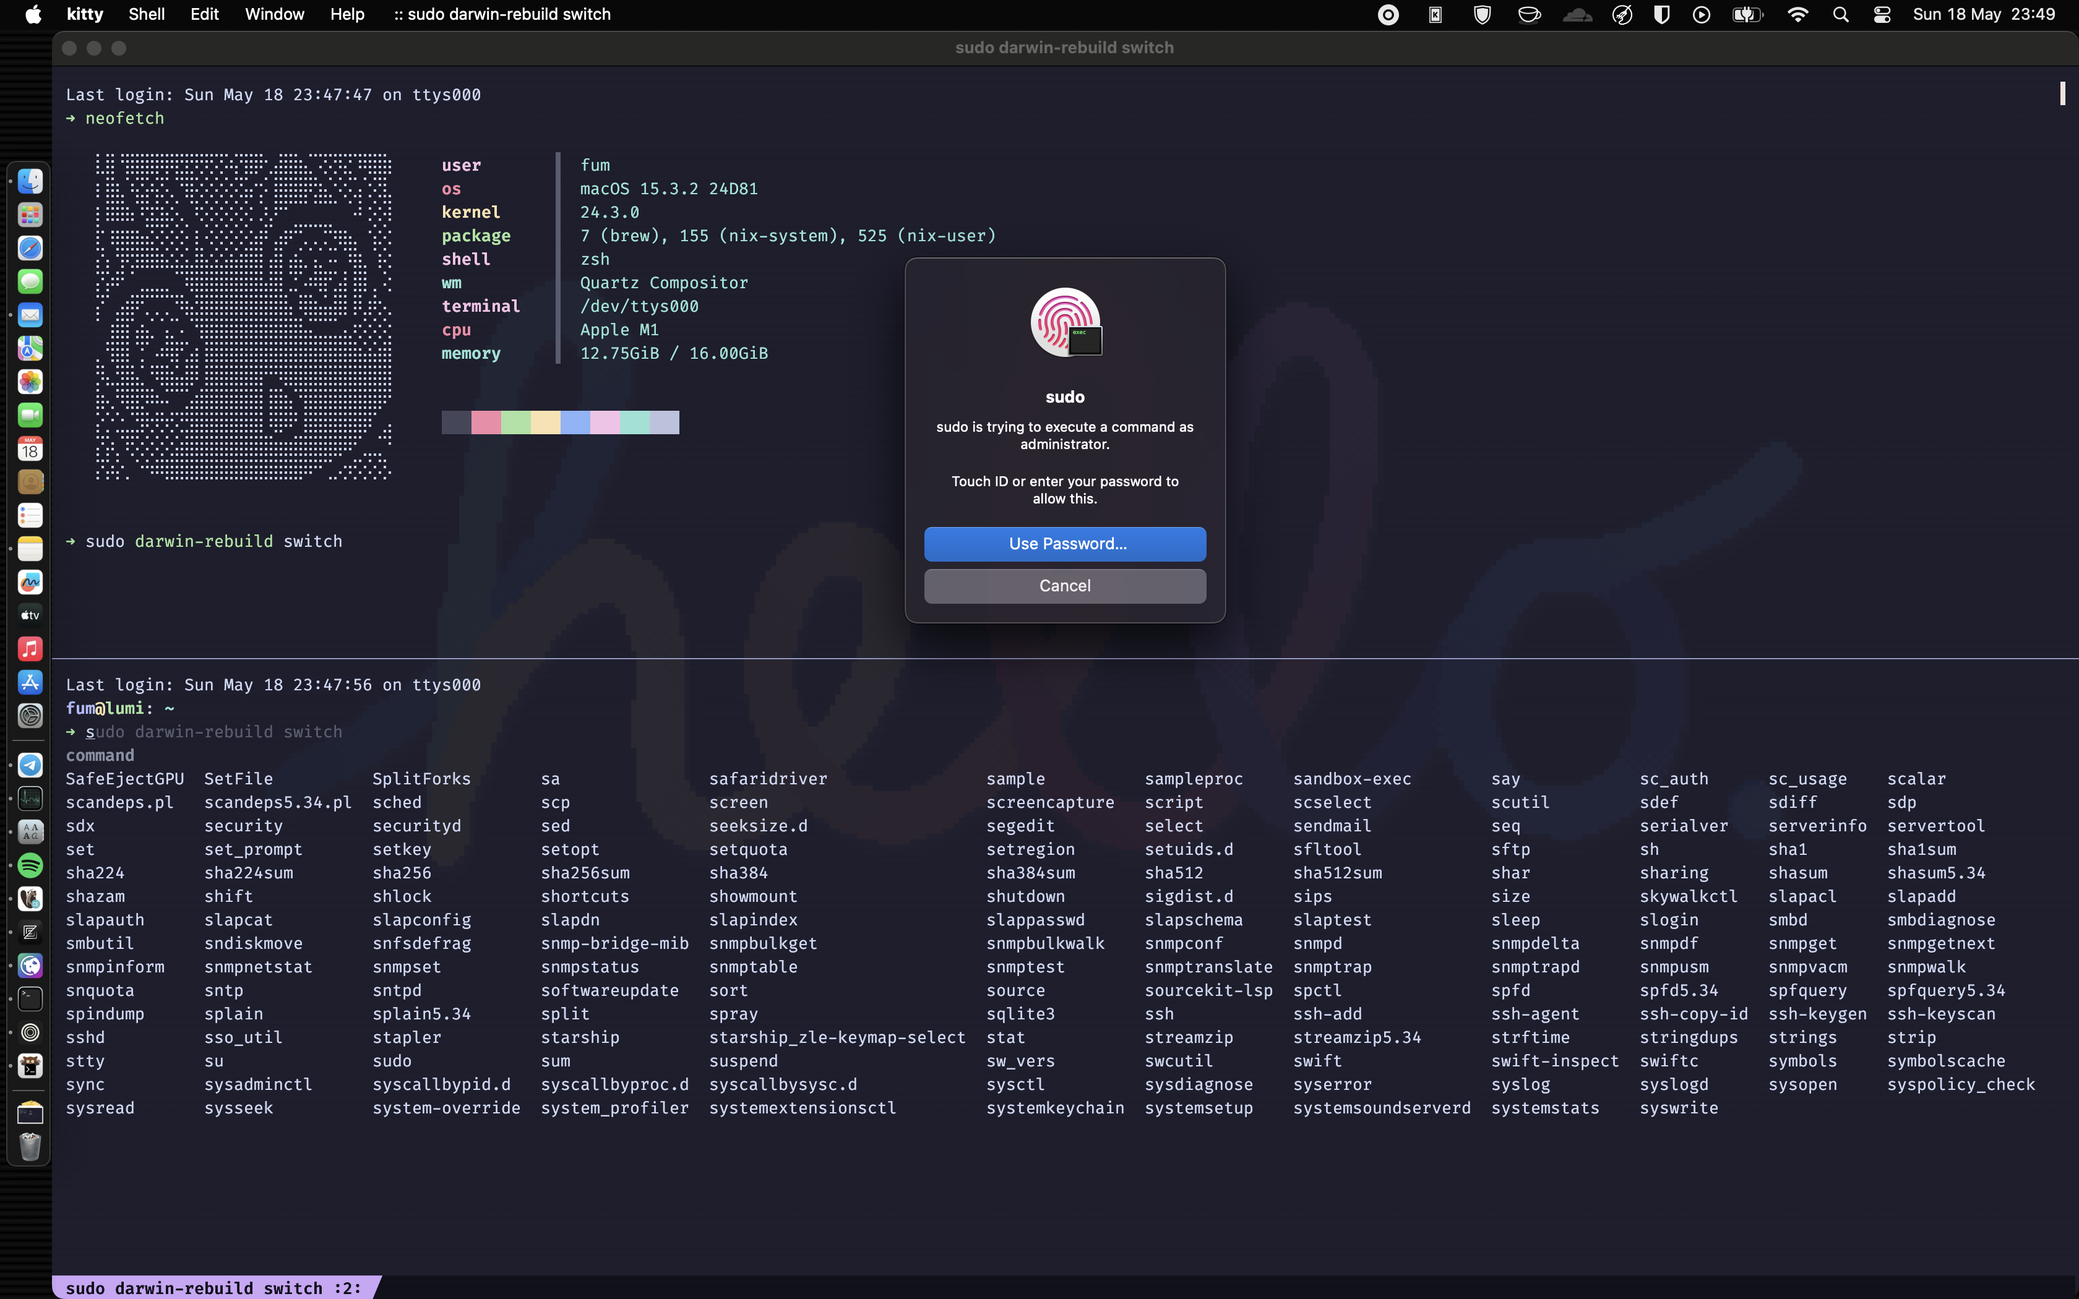
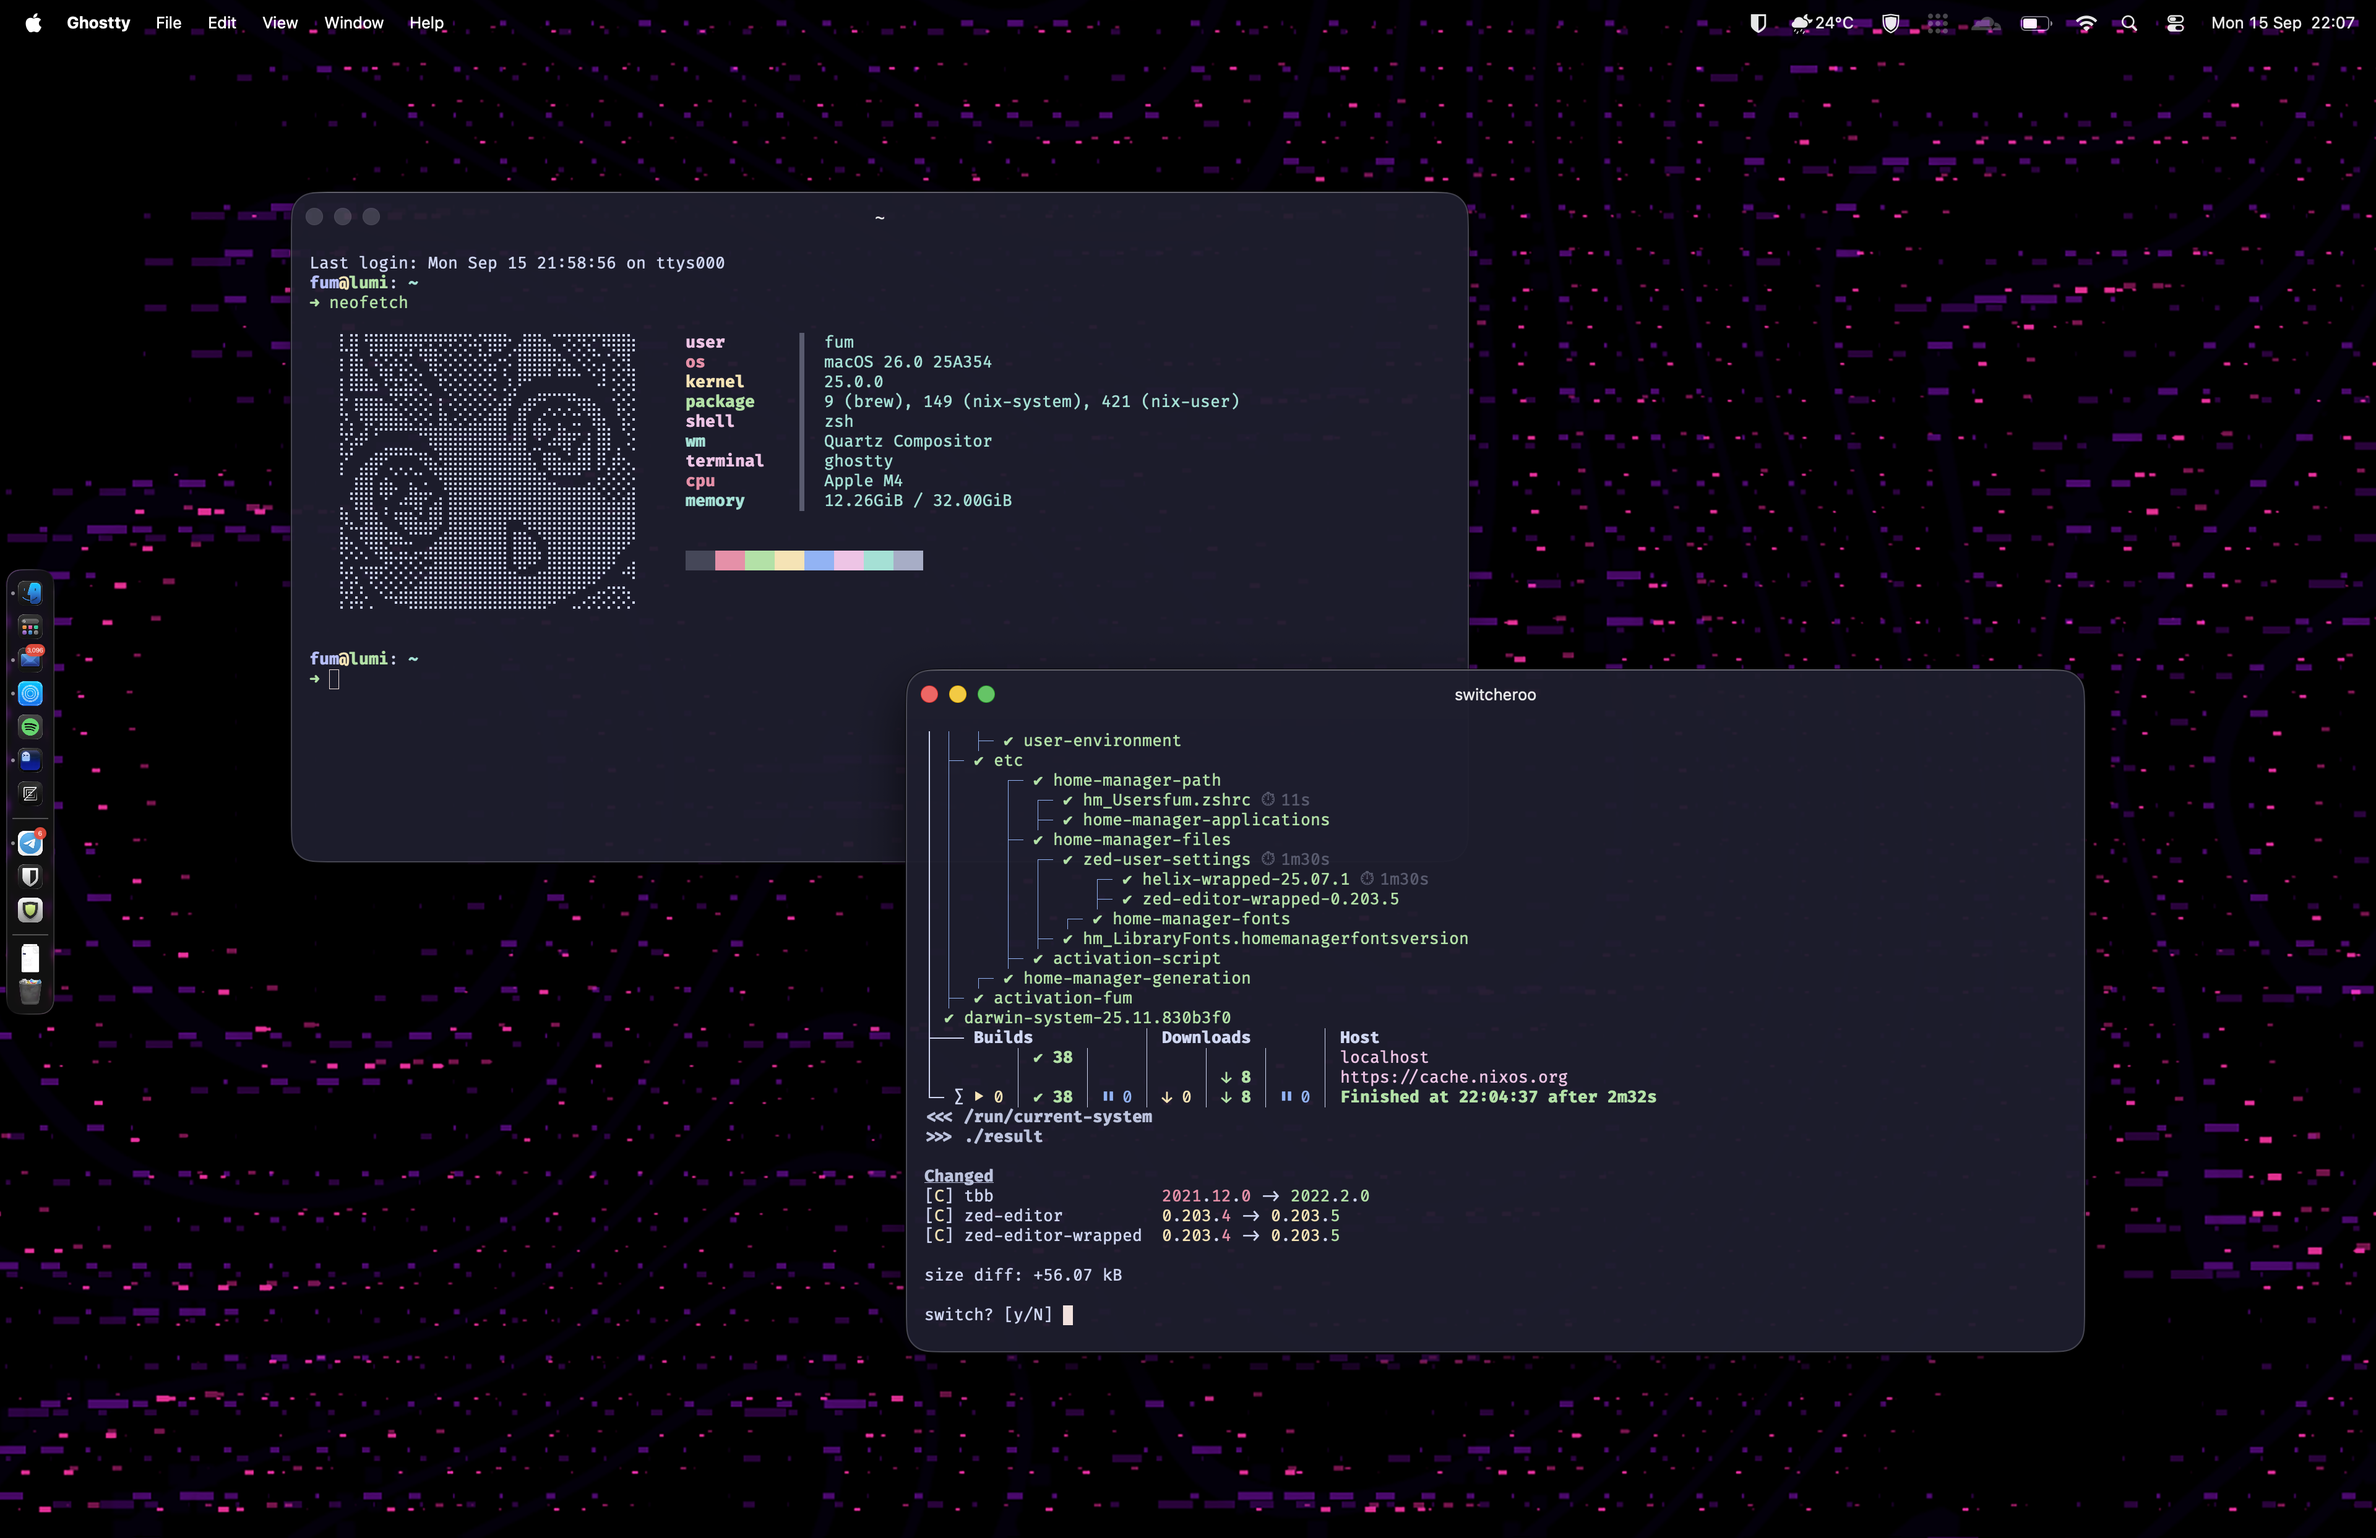
cleanup, add rustrover, update images for tahoe

diff --git a/README.md b/README.md
@@ -6,8 +6,8 @@ you might also be interested in my [packages](https://codeberg.org/fumnanya/flak
 
 ||
 |:-:|
-|![a terminal showing neofetch output with ascii art, and a popup asking for touch id to run a command](./sample.png)|
-|![a terminal showing the contents of this repository open in kitty](./sample2.png)|
+|![a desktop with two ghostty windows: one showing neofetch output with ascii art, and another showing some packages that are about to updated](./sample.png)|
+|![a ghostty window showing the contents of this repository open in helix](./sample2.png)|
 
 ## to use
 
@@ -38,6 +38,7 @@ you might also be interested in my [packages](https://codeberg.org/fumnanya/flak
 - add celluloid options `hw-dec=auto`
 - setup [fingerprint](https://github.com/ahbnr/nixos-06cb-009a-fingerprint-sensor/blob/24.11/SETUP-24.11.md)
 - figure out how to add this: [Set Word-wrap on as default in DBeaver - Super User](https://superuser.com/questions/1714584/set-word-wrap-on-as-default-in-dbeaver)
+- write down the whole full disk access and developer tools thing
 
 ## acknowledgements
 
